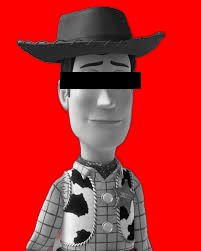
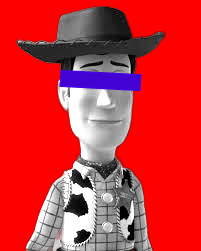
you can rotate the line on eyes now

Changed region(s): [[0.1194, 0.2231, 0.7761, 1.0], [0.1194, 0.0279, 0.4478, 0.1952], [0.0896, 0.1394, 0.1194, 0.1673]]

diff --git a/main.py b/main.py
@@ -1,11 +1,13 @@
 from rembg import remove
-from PIL import Image, ImageDraw
+from PIL import Image, ImageDraw, ImageEnhance
 
-def profile_sdm_tinggi(input_path,output_path,bg_color='red', eye_y_ratio=0, bar_height_ratio=0, bar_width_ratio=0, offset=10, line_color='black'):
+def profile_sdm_tinggi(input_path,output_path,bg_color='red',bar_color='black',eye_y_ratio=500,bar_height_ratio=0.02,bar_width_ratio=0.2,offset=10,slope_deg=0,contrast=1.0):
 
     open_img = Image.open(input_path)
     rem = remove(open_img)
     grayscale_img = rem.convert('L')
+    enhancer = ImageEnhance.Contrast(grayscale_img)
+    grayscale_img = enhancer.enhance(contrast)
     width, height = grayscale_img.size
     bg = Image.new('RGB', (width, height), color=bg_color)
 
@@ -19,14 +21,17 @@ def profile_sdm_tinggi(input_path,output_path,bg_color='red', eye_y_ratio=0, bar
     bg.paste(grayscale_rgba, (0, 0), grayscale_rgba)
 
     #tambahkan garis HYTAM!!
-    draw = ImageDraw.Draw(bg)
+    bar_layer = Image.new('RGBA',(width, height),(0, 0, 0, 0))
+    draw = ImageDraw.Draw(bar_layer)
     eye_y = int(height * eye_y_ratio)
     bar_height = int(height * bar_height_ratio)
     bar_width = int(width * bar_width_ratio)
     start = (width - bar_width) // 2 + offset
     end = start + bar_width
 
-    draw.rectangle([start,eye_y - bar_height // 2, end, eye_y + bar_height // 2], fill=line_color)
+    draw.rectangle([start,eye_y - bar_height // 2, end, eye_y + bar_height // 2], fill=bar_color)
+    rotated_bar = bar_layer.rotate(slope_deg, resample=Image.Resampling.BICUBIC, center=(width // 2, eye_y))
+    bg = Image.alpha_composite(bg.convert("RGBA"), rotated_bar)
     bg.save(output_path)
-
-profile_sdm_tinggi('input.jpg', 'output.png', 'red', 0.320, 0.07, 0.4, 0, 'black')
+profile_sdm_tinggi('input.jpg', 'output.png', 'red', "#4102D3", 0.320, 0.07, 0.4, 0, -3, 1.5)
+#profile_sdm_tinggi(1.input.jpg,2.output.png,3.bg_color',4.bar_color,5.eye_position,6.bar_height,7.bar_width,8.offset,9.slope,10.contrast):

diff --git a/README.md b/README.md
@@ -6,10 +6,13 @@ pip install pillow rembg onnxruntime
 # use the function
 
 ```python
-profile_sdm_tinggi('input.jpg', 'output.jpg', 'red', 0.450, 0.02, 0.2, 60, 'black')
+profile_sdm_tinggi('input.jpg', 'output.png', 'red', "#4102D3", 0.320, 0.07, 0.4, 0, -3, 1.5)
+#profile_sdm_tinggi(1.input.jpg,2.output.png,3.bg_color',4.bar_color,5.eye_position,6.bar_height,7.bar_width,8.offset,9.slope,10.contrast):
 ```
-you can adjust the line positions by change the number ratio 0.450(eye position), 0.02(line height), 0.2(line width), 60(for left and right positions).
-remember to delete the existing input.jpg and change with your picture
+You can adjust the bar position by changing the number values:
+0.320 (eye position), 0.07 (bar height), 0.4 (bar width), 0 (horizontal offset), -3 (bar slope in degrees), and 1.5 (image contrast).
+These numeric arguments are optional, use them to match your picture.
+Remember to delete the existing input.jpg and replace it with your own image.
 
 ## Preview
 ![woody with mostchreal style](output.png)
